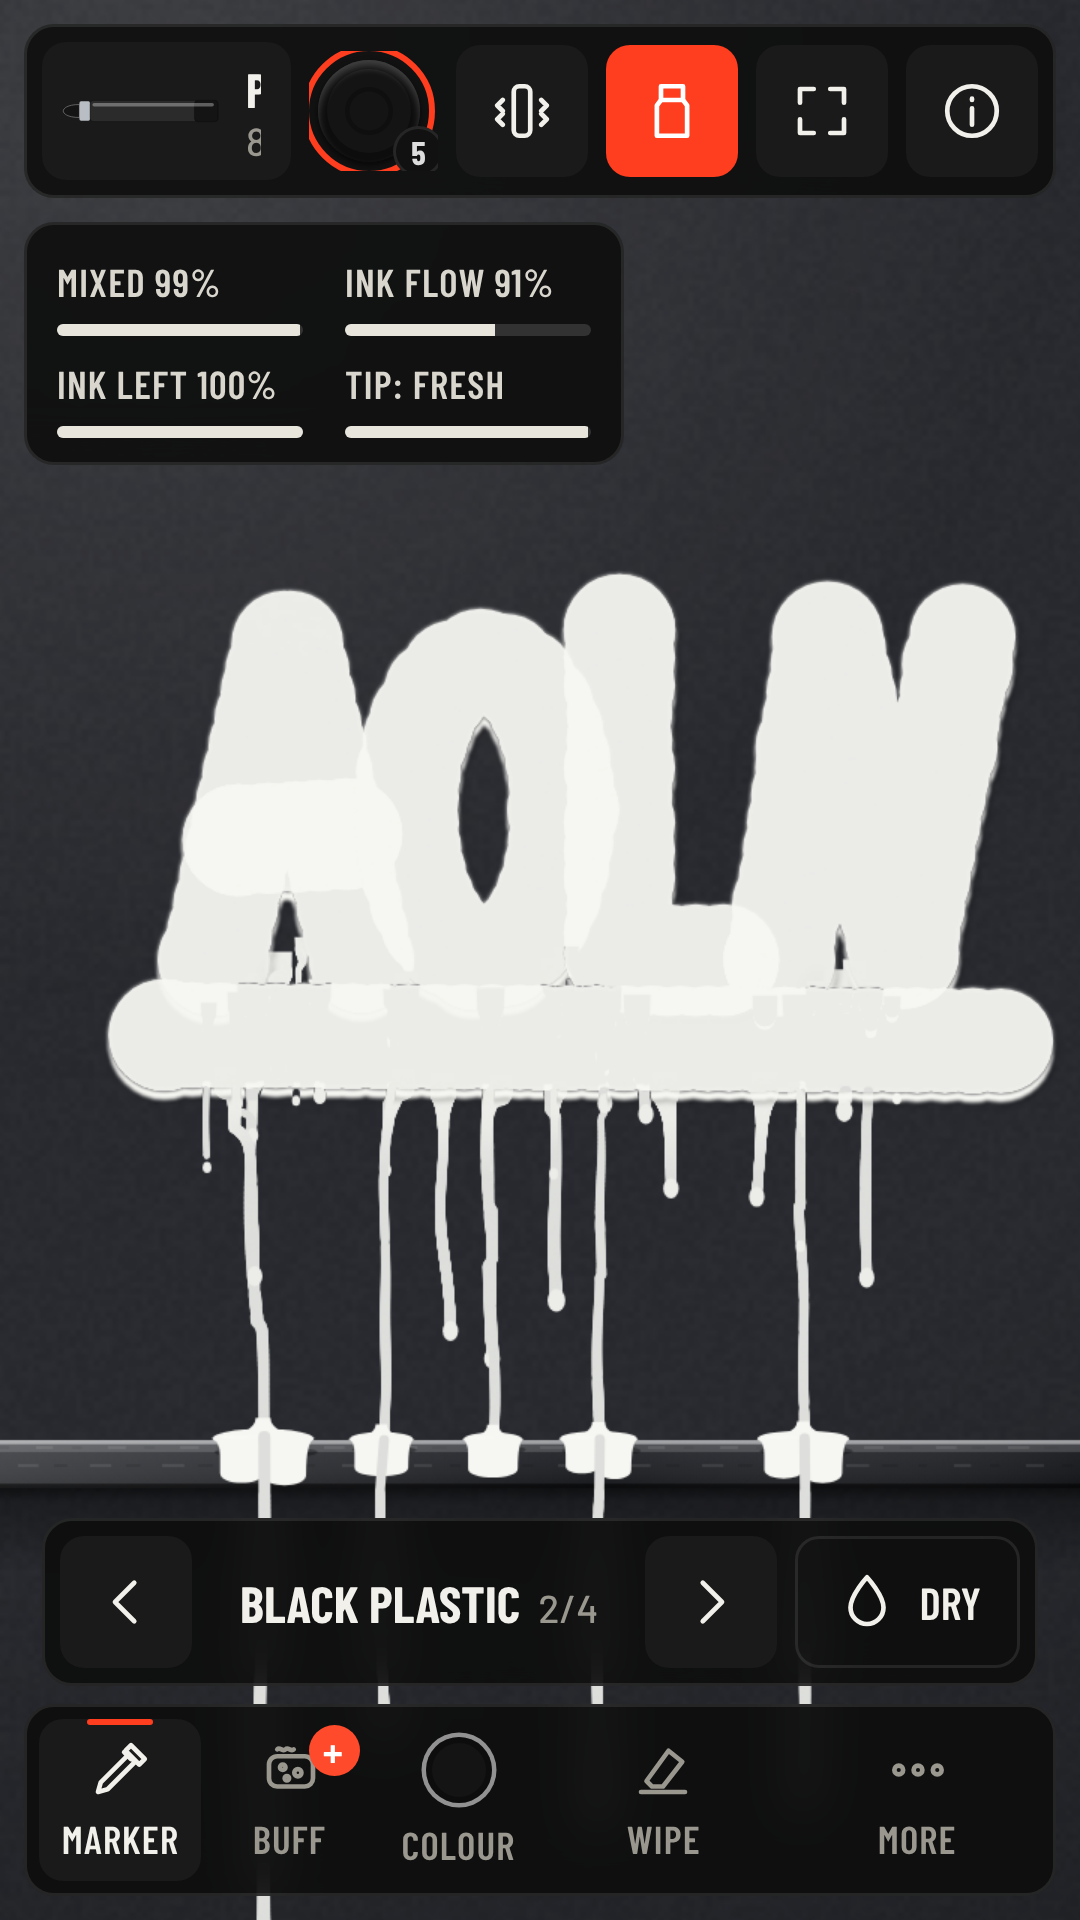
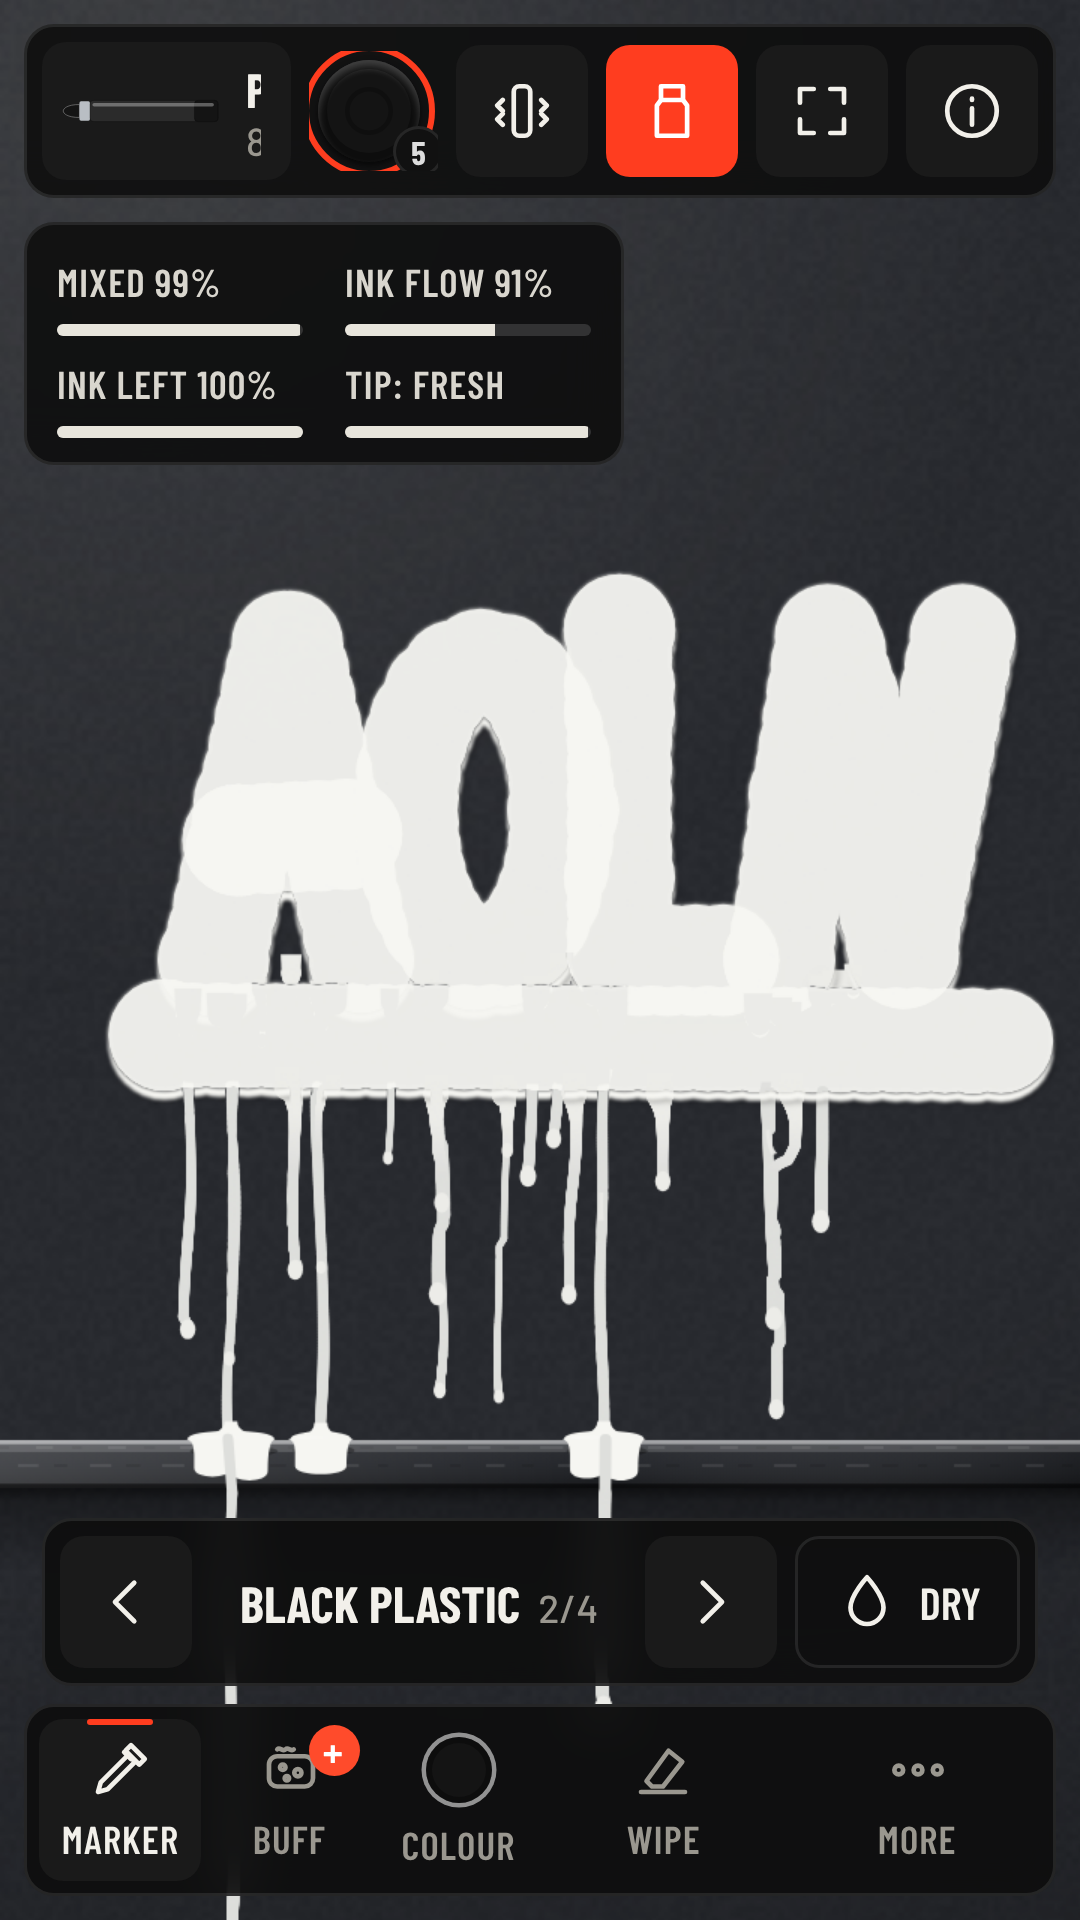
Dry walls: runs carry 10% less ink (shorter, thinner); wet walls and buff runs unchanged
Claude-Session: https://claude.ai/code/session_01DY4q9aJr83gDeVV3AY5oSN

diff --git a/index.html b/index.html
@@ -246,7 +246,7 @@ td.num{text-align:right;white-space:nowrap}
   <h2>Settings</h2>
   <div class="row"><button class="btn pri" id="bookSave">Save to blackbook</button><button class="btn" id="bookOpen">Open blackbook</button><button class="btn" id="wallShare">Share wall</button></div>
   <div class="row"><button class="btn pri" id="dryNow">Dry it now</button><button class="btn" id="fsBtn">Full screen</button><button class="btn" id="dlApp" hidden>Download app (HTML)</button></div>
-  <div class="row"><button class="btn" id="clear">Wipe wall clean</button><button class="btn" id="upright" aria-pressed="true">Drips: on</button><button class="btn" id="snd" aria-pressed="true">Sound on</button><button class="btn" id="coachBtn">Quick start</button><button class="btn" id="getAppBtn">Get the app</button><button class="btn" id="calBtn">Calibrate finger</button><button class="btn" id="ledgeBtn" aria-pressed="true">Ledge: on</button><button class="btn" id="lightBtn" aria-pressed="true">Light &amp; reflections: on</button><button class="btn" id="gravBtn">Drips: auto (sensor)</button><button class="btn" id="wxBtn">Weather: mild</button><div style="width:100%;margin-top:8px"><label class="lbl" for="ageR">Age the wall — <span id="ageV">fresh</span></label><input type="range" id="ageR" min="0" max="100" value="0" style="width:100%"></div><div class="small" id="buildTag" style="width:100%;text-align:center;opacity:.6;margin-top:6px">Version 6.3 · 25 Nov · Android 16 ready for Google Play</div></div>
+  <div class="row"><button class="btn" id="clear">Wipe wall clean</button><button class="btn" id="upright" aria-pressed="true">Drips: on</button><button class="btn" id="snd" aria-pressed="true">Sound on</button><button class="btn" id="coachBtn">Quick start</button><button class="btn" id="getAppBtn">Get the app</button><button class="btn" id="calBtn">Calibrate finger</button><button class="btn" id="ledgeBtn" aria-pressed="true">Ledge: on</button><button class="btn" id="lightBtn" aria-pressed="true">Light &amp; reflections: on</button><button class="btn" id="gravBtn">Drips: auto (sensor)</button><button class="btn" id="wxBtn">Weather: mild</button><div style="width:100%;margin-top:8px"><label class="lbl" for="ageR">Age the wall — <span id="ageV">fresh</span></label><input type="range" id="ageR" min="0" max="100" value="0" style="width:100%"></div><div class="small" id="buildTag" style="width:100%;text-align:center;opacity:.6;margin-top:6px">Version 6.4 · 25 Nov · drips toned down on dry walls</div></div>
   <div id="tipsBox"><div class="row" style="justify-content:space-between;align-items:center"><span class="lbl">Tips</span><button class="btn" id="tipsClear">Clear</button></div><ol id="tipsList" class="small" style="margin:0 0 12px;padding-left:20px;max-height:180px;overflow:auto;line-height:1.45"><li style="opacity:.6">Tips from your drawing show up here.</li></ol></div>
   <div class="row"><span class="lbl">Weather the wall</span><button class="btn" id="age1">+1 month</button><button class="btn" id="age12">+1 year</button></div>
   <p class="small">A simulation: pens modelled on real ones, dry times sped up, surface physics modelled rather than measured.</p>
@@ -914,7 +914,7 @@ addEventListener('devicemotion',e=>{const a=e.accelerationIncludingGravity;if(!a
 window.__rlG=()=>[gDir(),gCal.k];window.__rlD=()=>({drips:drips.length,spreads:spreads.length,cells:rainCells.length});window.__rlP=()=>({PENS,pen,openSheet,fillPen,BOTTLES,TC});window.__rlCol=c=>{color=c};window.__rlT=()=>[tilt.x,tilt.y,tilt.tx,tilt.ty];/* manual hold: when the screen can't rotate (rotation lock, in-app browser) or there's no motion sensor, say how the phone is held */
 let gMode=(()=>{try{return localStorage.getItem('rlGrav')||'auto'}catch(e){return 'auto'}})();const GMODES={auto:'Drips: auto (sensor)',down:'Drips: portrait',left:'Drips: phone turned left',right:'Drips: phone turned right',up:'Drips: upside down'},GVEC={down:{x:0,y:1},left:{x:1,y:0},right:{x:-1,y:0},up:{x:0,y:-1}};
 const gDir=()=>{if(gMode!=='auto'){const v=GVEC[gMode];return{x:v.x,y:v.y,m:1,flat:0}}if(!grav.live)return{x:0,y:1,m:1,flat:0};if(grav.m<.24)return{x:0,y:1,m:0,flat:1};let x=grav.x,y=grav.y;if(y>0&&Math.abs(x)<y*.28){const k=clamp((Math.abs(x)/(y*.28)-.35)/.65);x*=k*k}const m=Math.hypot(x,y)||1e-6,mag=sm(clamp((grav.m-.24)/.36));return{x:x/m,y:y/m,m:mag,flat:0}};
-function drip(x,y,vol,o){if(!upright||drips.length>(o&&o.wash?320:180)||vol<.1)return;/* a run can only leave from the UNDERSIDE of the ink: if there's still paint below, slide down to the bottom edge */if(!(o&&(o.soft||o.wash||o.et))){const G=gDir();if(Math.abs(G.y)>=Math.abs(G.x)){const sy=Math.sign(G.y)||1;let k=0;while(k<90&&(lmAt(x|0,(y+sy*2)|0)||smAt(x|0,(y+sy*2)|0))){y+=sy*2;k+=2}}}const s=surfAt(x,y);if(s.absorb>.8)return;const ty=o?o.ty:pen.ink;
+function drip(x,y,vol,o){if(!upright||drips.length>(o&&o.wash?320:180)||vol<.1)return;/* a run can only leave from the UNDERSIDE of the ink: if there's still paint below, slide down to the bottom edge */if(!(o&&(o.soft||o.wash||o.et))){const G=gDir();if(Math.abs(G.y)>=Math.abs(G.x)){const sy=Math.sign(G.y)||1;let k=0;while(k<90&&(lmAt(x|0,(y+sy*2)|0)||smAt(x|0,(y+sy*2)|0))){y+=sy*2;k+=2}}}const s=surfAt(x,y);if(s.absorb>.8)return;/* dry walls: runs carry 10% less ink (shorter, thinner) */if(!s.wet&&!(o&&(o.wash||o.et)))vol*=.9;const ty=o?o.ty:pen.ink;
  if(o&&o.et)etchOn=true;drips.push({wash:o&&o.wash,et:o&&o.et,x,y,vol,v0:vol,wet:s.wet,t0:o&&o.delay?performance.now()+o.delay:0,al:o&&o.al,thick:o?!!o.thick:THICK(),visc:o&&o.visc?o.visc:1,soft:!!(o&&o.soft),w:o&&o.w?o.w:R(),r:Math.min(o&&o.thick?3.6:!o&&THICK()?2.8:1.9,o&&o.r?o.r:!o&&THICK()?Math.max(1.5,Math.min(2.8,R()*(.09+Math.random()*.08))):DYEINK[ty]?Math.max(.5,Math.min(1.3,R()*(.025+Math.random()*.05))):Math.max(.7,Math.min(1.9,R()*(.04+Math.random()*.09)))),ek:o&&o.ek,col:o?o.col:INK[ty]&&INK[ty].etch&&ETCHABLE[s.id]?color:(INK[ty]&&INK[ty].future&&Math.random()<.65?color:color),ink:INK[ty],comp:o?'source-over':null,wk:o?(ty==='fluid'?'fluid':ty):pen.wet||pen.ink,id:Object.keys(INK).indexOf(ty)+1,ty,ph:Math.random()*9});
  {const d=drips[drips.length-1],k=sinkOf(ty);/* DYE RUNS carry the heavy settled pigment: as dark as the tag's settled bottom and rim, darker still from a flooded nib */if(DYEINK[ty]&&!d.soft&&!d.wash&&!d.et&&!s.wet&&typeof d.col==='string'&&d.col[0]==='#'&&s.absorb<=.4){/* (on a wet wall the runs carry the split-off dye instead) */const ov=pen.valve?clamp((pen.flow-.7)/.6):pen.squeeze?clamp(((pen.sat||1)-.7)/.5):clamp((flowNow(null)-.6)/.6);d.col=mixHex(d.col,'#000000',(lum(hex(d.col))<.3?.45:.3)+.22*ov)}if(k>0&&!d.wash&&!d.et&&!d.soft&&!d.al&&typeof d.col==='string'&&d.col[0]==='#'){const kk=Math.min(.6,k*(d.wet?1.3:1)),wall='#'+s.mean.map(v=>Math.round(v).toString(16).padStart(2,'0')).join('');
   d.wall=wall;d.kk=kk;d.pg={lite:mixHex(d.col,wall,kk*.4),deep:lum(hex(d.col))>.55?d.col:mixHex(d.col,'#000000',kk*.5),root:d.r*4+4};if(o&&o.src&&pigQ.length<80)pigQ.push({x,y,vol,col:d.col,k,w:o.w||R()})}}}
